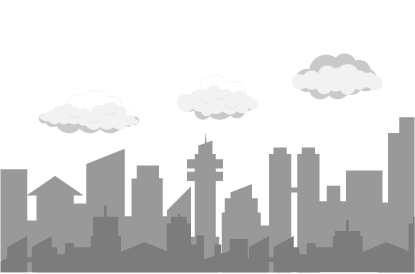
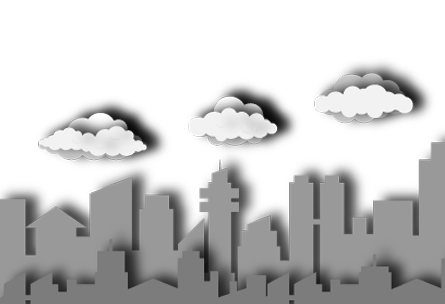
add about component and finalizated

diff --git a/src/app/components/about/about.component.scss b/src/app/components/about/about.component.scss
@@ -1,0 +1,66 @@
+@import '../../../styles.scss';
+
+section {
+    position: relative;
+    background: url('../../../assets/img/bg-body-mobile-bn.png');
+    background-size: cover;
+
+    &::before, &::after {
+        content: '';
+        position: absolute;
+        display: block;
+    }
+
+    &::before {
+        background: url('../../../assets/img/wall-crash.png') top right;
+        background-size: cover;
+        width: 100%;
+        height: 213px;
+        top: 0px;
+        right: 0px;
+    }
+
+    &::after {
+        top: 0px;
+        left: 0px;
+        width: 100%;
+        height: 637px;
+        @include gradient-vertical ($gradient-grey, $gradient-transparent);
+    }
+
+    .about {
+        position: relative;
+        z-index: 1;
+        padding-top: 170px;
+
+        h2 {
+            color: $text-grey-light;
+            margin-bottom: 60px;
+        }
+
+        p {
+            @include text ($gotham-medium, 16px, 20px, 500, normal);
+            font-family: $gotham-medium;
+
+            
+        }
+    }
+
+    .city {
+
+        display: block;
+        height: auto;
+        width: 100%;
+
+        &::after {
+            content: '';
+            position: absolute;
+            display: block;
+            bottom: -123px;
+            left: 0px;
+            width: 100%;
+            height: 123px;
+            @include gradient-vertical ($gradient-city, $gradient-transparent);
+        }
+    }
+}

diff --git a/src/app/components/about/about.component.html b/src/app/components/about/about.component.html
@@ -1,0 +1,15 @@
+<section>
+    <div class="container">
+        <div class="row">
+            <div class="offset-1 col-10">
+                <div class="about">
+                    <h2>Sobre mi</h2>
+                    <p>Lorem ipsum dolor sit amet consectetur adipisicing elit. Impedit nihil labore dolore quod, tenetur fugit voluptatum possimus quas itaque architecto pariatur facere animi atque consequuntur dolorum incidunt. Eveniet vitae perferendis dolorem accusamus facere dolorum iure quos odio exercitationem obcaecati soluta harum inventore, nobis fugiat repudiandae quisquam eum, minima ex? Perferendis.</p>
+                </div>
+            </div>
+        </div>
+    </div>
+    <div class="city">
+        <img src="../../../assets/img/bg-city.png" alt="bg-city">
+    </div>
+</section>

diff --git a/src/app/app.module.ts b/src/app/app.module.ts
@@ -6,13 +6,15 @@ import { AppComponent } from './app.component';
 import { NavBarComponent } from './components/shared/nav-bar/nav-bar.component';
 import { FooterComponent } from './components/shared/footer/footer.component';
 import { HomeComponent } from './components/home/home.component';
+import { AboutComponent } from './components/about/about.component';
 
 @NgModule({
   declarations: [
     AppComponent,
     NavBarComponent,
     FooterComponent,
-    HomeComponent
+    HomeComponent,
+    AboutComponent
   ],
   imports: [
     BrowserModule,

diff --git a/src/assets/config/vars/_fonts-size.scss b/src/assets/config/vars/_fonts-size.scss
@@ -52,8 +52,8 @@ p, a {
 // ***** Estos mixins son para customizar las fuentes en otros documentos *****
 // ***** Mixins *****
 @mixin text ($family, $size, $line, $weight, $style) {
-    font-size: $size;
-    line-height: $line;
-    font-weight: $weight;
-    font-style: $style;
+    font-size: $size !important;
+    line-height: $line !important;
+    font-weight: $weight !important;
+    font-style: $style !important;
 }

diff --git a/src/assets/config/vars/_colors.scss b/src/assets/config/vars/_colors.scss
@@ -33,6 +33,7 @@ $border-black: #000000;
 // ***** Shadows *****
 $shadow-white: #ffffff;
 $shadow-black: #000000;
+$shadow-black-10: rgba(#000000, .1);
 $shadow-grey: #939393;
 $shadow-menu: rgba($shadow-black, .6);
 
@@ -40,3 +41,4 @@ $shadow-menu: rgba($shadow-black, .6);
 $gradient-white: #ffffff;
 $gradient-transparent: rgba($gradient-white, 0);
 $gradient-grey: #727272;
+$gradient-city: #7c7c7c;

diff --git a/src/app/components/shared/footer/footer.component.html b/src/app/components/shared/footer/footer.component.html
@@ -14,7 +14,7 @@
     <p class="footer__info">
         <span class="copy">&copy; {{ anio }}</span>
         <span>Todos los derechos reservados.</span>
-        <span>Sitio ha sido creado con mucho</span>
+        <span>Sitio creado con mucho</span>
         <i class="far fa-heart"></i>
     </p>
 </footer>

diff --git a/src/app/components/about/about.component.ts b/src/app/components/about/about.component.ts
@@ -1,0 +1,15 @@
+import { Component, OnInit } from '@angular/core';
+
+@Component({
+  selector: 'app-about',
+  templateUrl: './about.component.html',
+  styleUrls: ['./about.component.scss']
+})
+export class AboutComponent implements OnInit {
+
+  constructor() { }
+
+  ngOnInit(): void {
+  }
+
+}

diff --git a/src/app/components/home/home.component.html b/src/app/components/home/home.component.html
@@ -10,11 +10,6 @@
             <i class="fas fa-chevron-down"></i>
         </button>
     </p>
-    <div class="container">
-        <div class="row">
-            <div class="col-12">
-                
-            </div>
-        </div>
-    </div>
 </section>
+
+<app-about></app-about>
